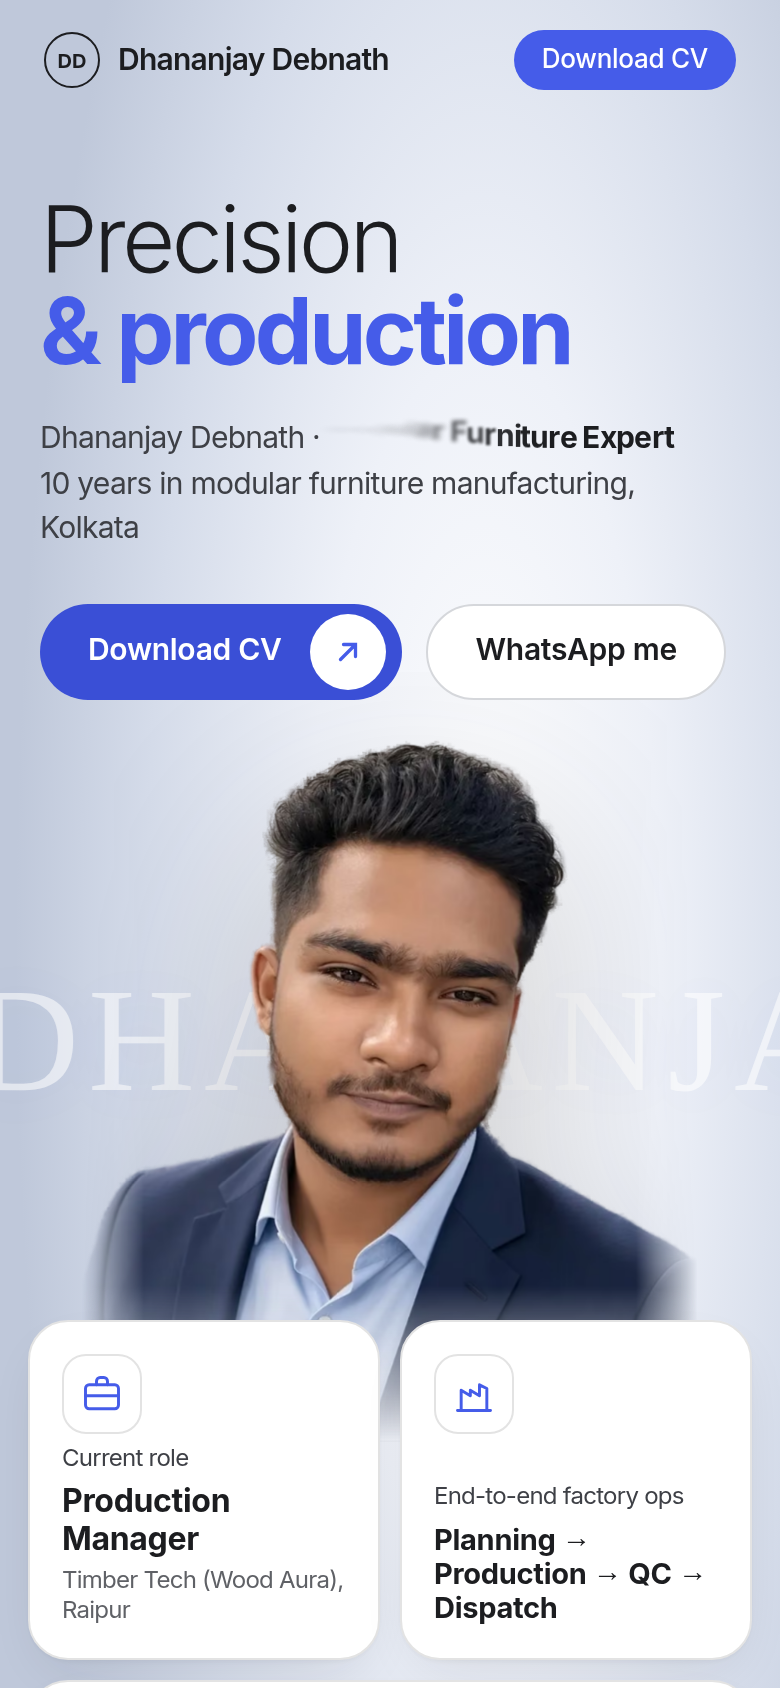
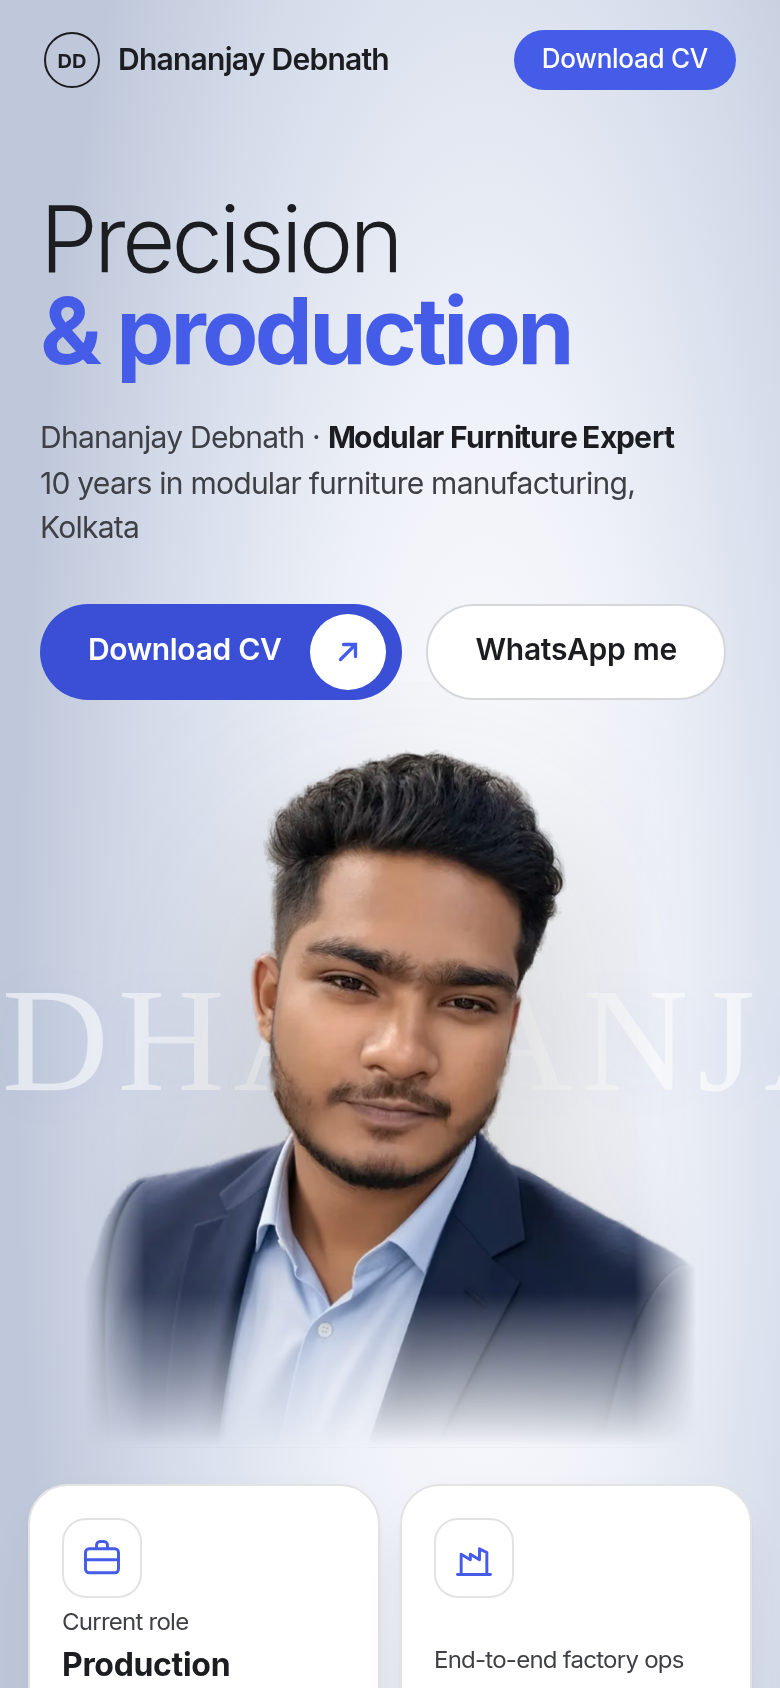
Hero: cards and open-to-work pill moved left, nothing covers the photo

diff --git a/index.html b/index.html
@@ -300,7 +300,7 @@ section.alt .card,section.alt .job .box,section.alt .mc,#credentials .card{backg
 .cgs li{padding-top:calc((3 - var(--n))*48px)}.cgb{background:#26272B;border:1px solid #34353A;border-top:3px solid var(--bl);border-radius:16px;padding:16px;min-height:calc(150px + var(--n)*48px);display:flex;flex-direction:column;gap:4px;position:relative}
 .cgs li:last-child .cgb{background:#3A4FD6;border-color:#3A4FD6}.cgs li:last-child .cgy,.cgs li:last-child .cgc{color:#fff}
 .cgy{font-size:12px;font-weight:600;color:#8E9DFF}.cgb b{font-size:16px;line-height:1.25}.cgc{font-size:13px;color:#B9BABD;line-height:1.35}.cgb i{font-style:normal;margin-top:auto;font-size:28px;font-weight:700;letter-spacing:-.03em}
-@media(max-width:760px){.cgs{grid-template-columns:1fr;gap:10px}.cgs li{padding:0 0 0 calc(var(--n)*14px)}.cgb{min-height:0;flex-direction:row;flex-wrap:wrap;align-items:baseline;gap:2px 10px}.cgb b{flex:1 1 100%}.cgb i{margin:0 0 0 auto;font-size:20px}.cgy{flex:1 1 100%}.cg{border-radius:50% 50% 0 0/30px 30px 0 0}.cgs{display:flex;flex-direction:column-reverse}}.hc{grid-template-columns:150px 170px 230px 170px!important}.c4{height:170px;display:flex;flex-direction:column;justify-content:flex-end}.c4 b{font-size:14.5px}@media(max-width:1250px){.hc{grid-template-columns:140px 150px 210px 150px!important}.hp{right:20%}}@media(max-width:900px){.hc{grid-template-columns:1fr 1fr!important}.c4{order:3;height:auto;grid-column:1/-1;flex-direction:row;align-items:center;gap:12px;flex-wrap:wrap}.c4 .lic{margin:0}.c4 small{flex:1 1 60%}.c4 b{flex:1 1 100%}.c3{order:4}}@media(max-width:900px){.hp{right:auto!important;left:auto!important;margin-left:auto!important;margin-right:auto!important;width:min(78vw,400px)!important}.bgt{left:0!important;right:auto!important;width:max-content;top:var(--bt,52%)!important;bottom:auto!important;z-index:0!important;font-size:19vw!important;letter-spacing:.06em!important;opacity:.55;animation:bgt .6s ease calc(var(--d) + .3s) forwards,mq 11s ease-in-out calc(var(--d) + .3s) infinite alternate!important}.hp{z-index:1!important}@keyframes mq{from{transform:translateX(12px)}to{transform:translateX(calc(100vw - 100% - 12px))}}.hp{margin-top:0!important}.hp img{-webkit-mask-image:linear-gradient(#000 80%,transparent),linear-gradient(90deg,transparent,#000 10%,#000 90%,transparent);mask-image:linear-gradient(#000 80%,transparent),linear-gradient(90deg,transparent,#000 10%,#000 90%,transparent);-webkit-mask-composite:source-in;mask-composite:intersect}}@media(max-width:900px) and (prefers-reduced-motion:reduce){.bgt{animation:none!important;opacity:.55;font-size:12.5vw!important;left:0!important;right:0!important;width:auto;text-align:center}}.ab .abl{font-size:clamp(20px,2.2vw,26px);font-weight:600;line-height:1.3;color:#1C1D20;letter-spacing:-.01em}.ab .abs{margin:10px 0 22px;color:#5b5e66;font-size:15.5px;line-height:1.55}.abp{list-style:none;padding:0;margin:0;display:grid;gap:10px}.abp li{background:#fff;border:1px solid #E6E7EB;border-left:3px solid #455CE9;border-radius:12px;padding:13px 16px;box-shadow:0 4px 14px rgba(28,29,32,.05)}.abp b{display:block;font-size:15px;color:#1C1D20}.abp span{display:block;font-size:14px;color:#5b5e66;line-height:1.5;margin-top:2px}.about .kv{align-self:start;display:block;padding:6px 22px}.about .kv>div{display:flex;justify-content:space-between;gap:12px;padding:14px 0;border-bottom:1px solid #EDEEF1;height:auto;min-height:0}.about .kv>div:last-child{border-bottom:0}.about .kv span{color:#6b6e76;font-size:13.5px}.about .kv b{text-align:right;font-size:14.5px}.sg .chips li:after,.sg .wf li:after{content:none!important}</style>
+@media(max-width:760px){.cgs{grid-template-columns:1fr;gap:10px}.cgs li{padding:0 0 0 calc(var(--n)*14px)}.cgb{min-height:0;flex-direction:row;flex-wrap:wrap;align-items:baseline;gap:2px 10px}.cgb b{flex:1 1 100%}.cgb i{margin:0 0 0 auto;font-size:20px}.cgy{flex:1 1 100%}.cg{border-radius:50% 50% 0 0/30px 30px 0 0}.cgs{display:flex;flex-direction:column-reverse}}.hc{grid-template-columns:150px 170px 230px 170px!important}.c4{height:170px;display:flex;flex-direction:column;justify-content:flex-end}.c4 b{font-size:14.5px}@media(max-width:1250px){.hc{grid-template-columns:140px 150px 210px 150px!important}.hp{right:20%}}@media(max-width:900px){.hc{grid-template-columns:1fr 1fr!important}.c4{order:3;height:auto;grid-column:1/-1;flex-direction:row;align-items:center;gap:12px;flex-wrap:wrap}.c4 .lic{margin:0}.c4 small{flex:1 1 60%}.c4 b{flex:1 1 100%}.c3{order:4}}@media(max-width:900px){.hp{right:auto!important;left:auto!important;margin-left:auto!important;margin-right:auto!important;width:min(78vw,400px)!important}.bgt{left:0!important;right:auto!important;width:max-content;top:var(--bt,52%)!important;bottom:auto!important;z-index:0!important;font-size:19vw!important;letter-spacing:.06em!important;opacity:.55;animation:bgt .6s ease calc(var(--d) + .3s) forwards,mq 11s ease-in-out calc(var(--d) + .3s) infinite alternate!important}.hp{z-index:1!important}@keyframes mq{from{transform:translateX(12px)}to{transform:translateX(calc(100vw - 100% - 12px))}}.hp{margin-top:0!important}.hp img{-webkit-mask-image:linear-gradient(#000 80%,transparent),linear-gradient(90deg,transparent,#000 10%,#000 90%,transparent);mask-image:linear-gradient(#000 80%,transparent),linear-gradient(90deg,transparent,#000 10%,#000 90%,transparent);-webkit-mask-composite:source-in;mask-composite:intersect}}@media(max-width:900px) and (prefers-reduced-motion:reduce){.bgt{animation:none!important;opacity:.55;font-size:12.5vw!important;left:0!important;right:0!important;width:auto;text-align:center}}.ab .abl{font-size:clamp(20px,2.2vw,26px);font-weight:600;line-height:1.3;color:#1C1D20;letter-spacing:-.01em}.ab .abs{margin:10px 0 22px;color:#5b5e66;font-size:15.5px;line-height:1.55}.abp{list-style:none;padding:0;margin:0;display:grid;gap:10px}.abp li{background:#fff;border:1px solid #E6E7EB;border-left:3px solid #455CE9;border-radius:12px;padding:13px 16px;box-shadow:0 4px 14px rgba(28,29,32,.05)}.abp b{display:block;font-size:15px;color:#1C1D20}.abp span{display:block;font-size:14px;color:#5b5e66;line-height:1.5;margin-top:2px}.about .kv{align-self:start;display:block;padding:6px 22px}.about .kv>div{display:flex;justify-content:space-between;gap:12px;padding:14px 0;border-bottom:1px solid #EDEEF1;height:auto;min-height:0}.about .kv>div:last-child{border-bottom:0}.about .kv span{color:#6b6e76;font-size:13.5px}.about .kv b{text-align:right;font-size:14.5px}.sg .chips li:after,.sg .wf li:after{content:none!important}@media(max-width:900px){.hc{margin-top:12px!important}}@media(min-width:901px){.hp{right:1.5vw!important;left:auto!important}.hc{right:auto!important;left:max(6vw,24px)!important;bottom:5%!important;grid-template-columns:130px 150px 190px 150px!important;gap:12px!important}.hav{right:auto!important;left:max(6vw,24px)!important;top:calc(34% - 74px)!important}}@media(min-width:901px) and (max-height:860px){.hlt{top:27%!important}.hav{top:calc(27% - 66px)!important}}</style>
 <script type="application/ld+json">
 {"@context":"https://schema.org","@type":"Person","name":"Dhananjay Debnath","alternateName":"Sanu Debnath","jobTitle":"Production Manager","description":"Production Manager with 10 years of hands-on experience in modular furniture manufacturing.","url":"https://debnathofficial.pages.dev/","image":"https://debnathofficial.pages.dev/assets/img/dd-800.webp","email":"mailto:debnathofficial07@gmail.com","telephone":"+91-7797691585","address":{"@type":"PostalAddress","addressLocality":"Kolkata","addressRegion":"West Bengal","addressCountry":"IN"},"worksFor":{"@type":"Organization","name":"Timber Tech (Wood Aura)"},"knowsLanguage":["Bengali","Hindi","English"],"knowsAbout":["Modular furniture manufacturing","Biesse CNC boring","Beam saw","Panel saw","Edge banding","Spazio 3D","Naadi 3D design","AutoCAD 2D","Production Planning & Control","Bill of Materials","Cut list optimization","Quality control"],"hasCredential":[{"@type":"EducationalOccupationalCredential","name":"Biesse CNC Operation & Preventive Maintenance"},{"@type":"EducationalOccupationalCredential","name":"Spazio 3D Cabinet Design & Optimization"},{"@type":"EducationalOccupationalCredential","name":"Naadi 3D design software training (2026)"}]}
 </script>
